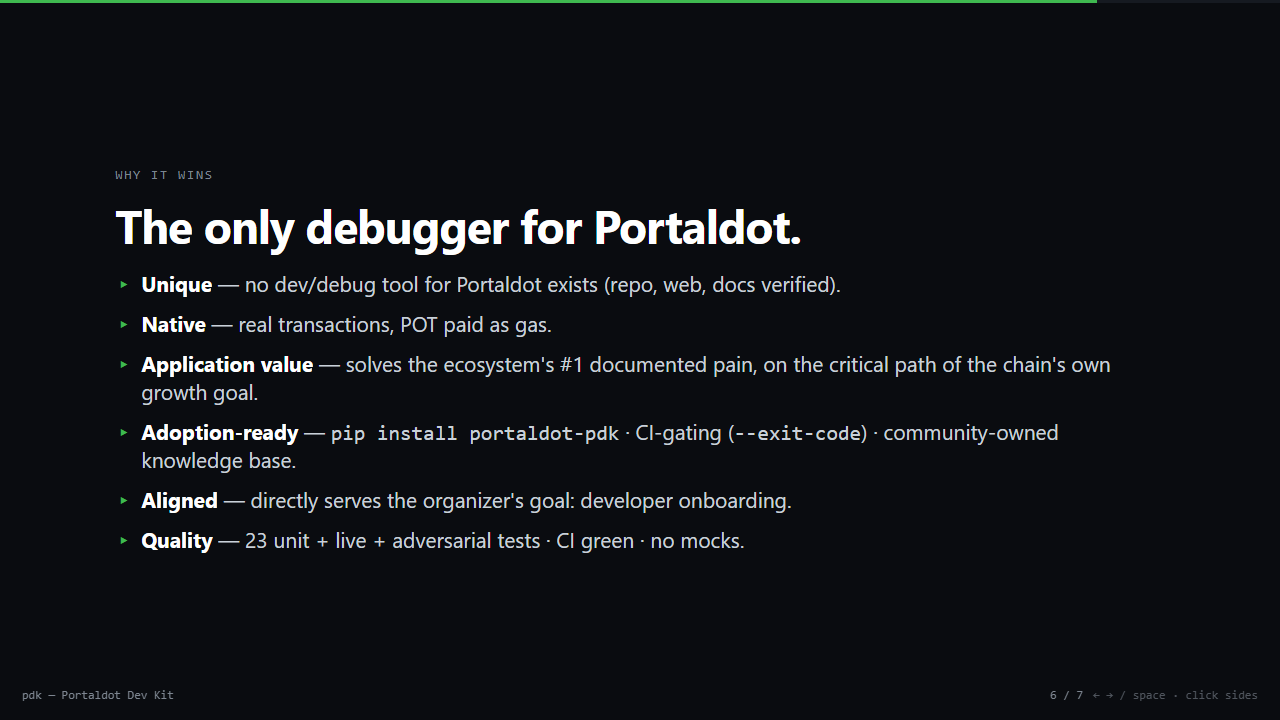
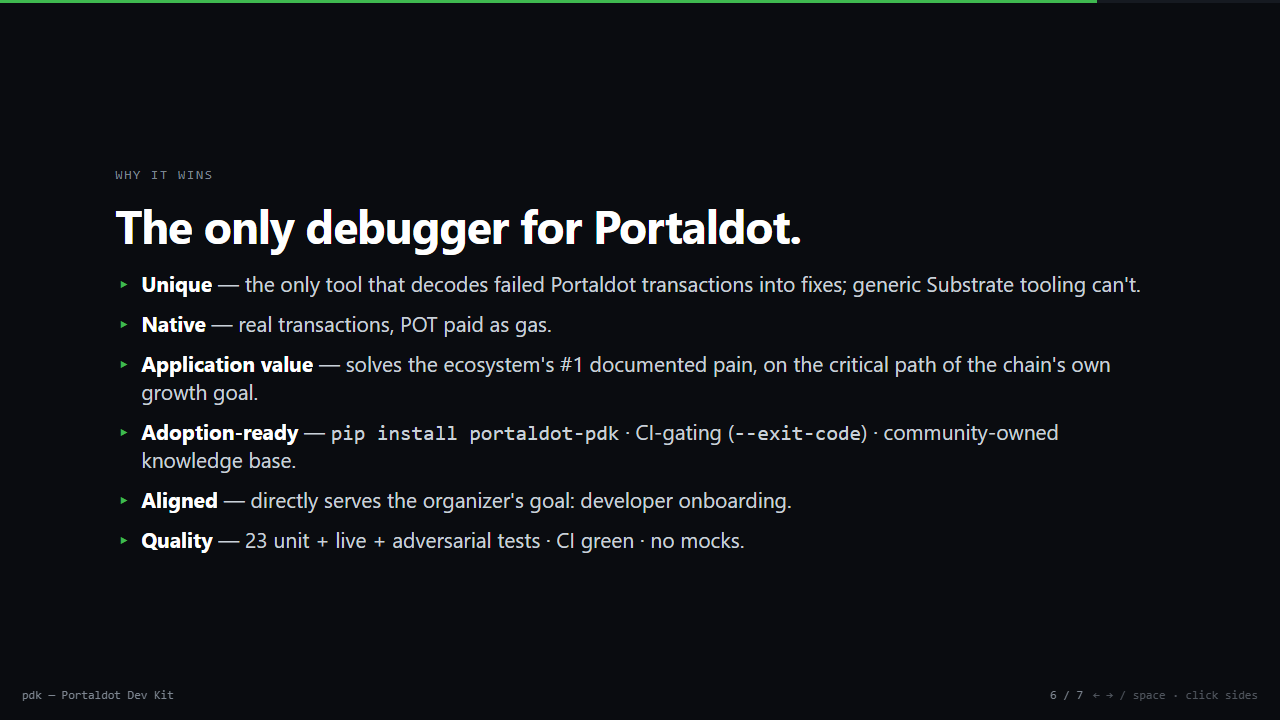
Add visual Developer Dashboard + fix uniqueness claim (competitor exists)
Mentors' #1 fix for a dev tool: "add a visual anchor, even a static mock, so
judges see the value." Built /dashboard — a real, no-mock visual companion to
the CLI: node health, a FailLens-decoded failure, the verified dev-account
addresses, the native-deployment tx, and the 12-command surface. Linked from
landing + errors nav, README, SUBMISSION.

A competitor developer toolkit exists in the field, so corrected the overstrong
"no dev/debug tool for Portaldot exists" claim to the accurate, defensible
differentiation (the only tool that DECODES failed transactions). Re-rendered
the pitch video's why-it-wins segment to match; refreshed slide-6 screenshot.

Changed region(s): [[0.1875, 0.3667, 0.875, 0.4278]]

diff --git a/web/dashboard/index.html b/web/dashboard/index.html
@@ -1,0 +1,207 @@
+<!DOCTYPE html>
+<html lang="en">
+<head>
+<meta charset="UTF-8" />
+<meta name="viewport" content="width=device-width, initial-scale=1.0" />
+<title>pdk — Developer Dashboard</title>
+<meta name="description" content="A visual companion to the pdk CLI — node health, FailLens diagnoses, dev accounts, and the full command surface for the Portaldot blockchain." />
+<meta name="theme-color" content="#0a0c10" />
+<meta property="og:title" content="pdk — Portaldot Developer Dashboard" />
+<meta property="og:description" content="See what pdk surfaces from a live Portaldot node: node health, decoded failures, dev accounts, and 12 commands." />
+<meta property="og:url" content="https://portaldot-pdk.vercel.app/dashboard" />
+<meta property="og:image" content="https://portaldot-pdk.vercel.app/logo.png" />
+<meta name="twitter:card" content="summary" />
+<link rel="icon" type="image/png" href="/logo.png" />
+<style>
+  :root {
+    --bg:#0a0c10; --panel:#14171d; --panel2:#0f1318; --border:#21262d; --text:#c9d1d9;
+    --muted:#7d8590; --green:#3fb950; --red:#f85149; --amber:#d29922; --cyan:#56d4dd;
+    --mono: ui-monospace, SFMono-Regular, "SF Mono", Menlo, Consolas, monospace;
+    --sans: -apple-system, BlinkMacSystemFont, "Segoe UI", Roboto, Helvetica, Arial, sans-serif;
+  }
+  * { box-sizing:border-box; margin:0; padding:0; }
+  body { background:var(--bg); color:var(--text); font-family:var(--sans); -webkit-font-smoothing:antialiased; line-height:1.5; }
+  code,pre,.mono { font-family:var(--mono); }
+  a { color:var(--green); text-decoration:none; } a:hover { text-decoration:underline; }
+  .wrap { max-width:1080px; margin:0 auto; padding:0 22px; }
+
+  header.top { border-bottom:1px solid var(--border); padding:14px 0; position:sticky; top:0;
+    background:rgba(10,12,16,.92); backdrop-filter:blur(8px); z-index:10; }
+  header.top .wrap { display:flex; align-items:center; justify-content:space-between; gap:14px; flex-wrap:wrap; }
+  .brand { font-family:var(--mono); font-weight:700; color:#fff; }
+  .brand .dot { color:var(--green); }
+  .navlinks { display:flex; gap:16px; font-size:14px; flex-wrap:wrap; }
+  .status { font-family:var(--mono); font-size:12px; color:var(--muted); display:flex; align-items:center; gap:7px; }
+  .pulse { width:9px; height:9px; border-radius:50%; background:var(--green); box-shadow:0 0 0 0 rgba(63,185,80,.6); animation:p 2s infinite; }
+  @keyframes p { 0%{box-shadow:0 0 0 0 rgba(63,185,80,.5)} 70%{box-shadow:0 0 0 7px rgba(63,185,80,0)} 100%{box-shadow:0 0 0 0 rgba(63,185,80,0)} }
+
+  .hero { padding:40px 0 14px; }
+  .kicker { font-family:var(--mono); font-size:12px; letter-spacing:.14em; text-transform:uppercase; color:var(--muted); }
+  h1 { font-size:clamp(28px,4.6vw,42px); line-height:1.05; letter-spacing:-.02em; color:#fff; margin:8px 0 10px; }
+  .lede { color:var(--muted); font-size:clamp(14px,1.8vw,17px); max-width:70ch; }
+  .note { background:#0e1116; border:1px solid var(--border); border-left:3px solid var(--green); border-radius:8px;
+    padding:11px 15px; margin:18px 0 6px; color:var(--muted); font-size:13.5px; }
+  .note strong { color:var(--text); }
+
+  .grid { display:grid; grid-template-columns:repeat(12,1fr); gap:16px; padding:18px 0 10px; }
+  .card { background:var(--panel); border:1px solid var(--border); border-radius:12px; padding:18px 20px; }
+  .card h2 { font-size:13px; font-family:var(--mono); letter-spacing:.06em; text-transform:uppercase; color:var(--muted); margin-bottom:14px; display:flex; align-items:center; justify-content:space-between; }
+  .card h2 .cmd { color:var(--green); text-transform:none; letter-spacing:0; }
+  .col-4 { grid-column:span 4; } .col-6 { grid-column:span 6; } .col-8 { grid-column:span 8; } .col-12 { grid-column:span 12; }
+  @media (max-width:860px){ .col-4,.col-6,.col-8 { grid-column:span 12; } }
+
+  .kv { display:flex; justify-content:space-between; gap:14px; padding:7px 0; border-bottom:1px solid #1b2027; font-size:14px; }
+  .kv:last-child { border-bottom:0; }
+  .kv .k { color:var(--muted); } .kv .v { font-family:var(--mono); color:var(--text); text-align:right; }
+  .v .ok { color:var(--green); } .v .amber { color:var(--amber); }
+
+  .term { background:var(--panel2); border:1px solid var(--border); border-radius:9px; padding:14px 16px; font-family:var(--mono); font-size:13.5px; }
+  .term .err { color:var(--red); font-weight:600; }
+  .term .lbl { color:#fff; font-weight:600; margin-top:10px; }
+  .term .mut { color:var(--muted); }
+  ol.fix { margin:6px 0 0 18px; display:flex; flex-direction:column; gap:4px; }
+  ol.fix li::marker { color:var(--green); }
+
+  .acct { display:flex; align-items:center; justify-content:space-between; gap:12px; padding:9px 0; border-bottom:1px solid #1b2027; }
+  .acct:last-child { border-bottom:0; }
+  .acct .name { font-weight:600; color:#fff; min-width:64px; }
+  .acct .addr { font-family:var(--mono); font-size:12px; color:var(--muted); word-break:break-all; }
+  .badge { font-family:var(--mono); font-size:11px; color:var(--green); border:1px solid #1f3a26; background:#0e1a12; border-radius:999px; padding:2px 9px; white-space:nowrap; }
+
+  .cmds { display:grid; grid-template-columns:repeat(auto-fit,minmax(150px,1fr)); gap:10px; }
+  .cmd-card { background:var(--panel2); border:1px solid var(--border); border-radius:9px; padding:11px 13px; }
+  .cmd-card .c { font-family:var(--mono); color:var(--green); font-weight:600; font-size:13.5px; }
+  .cmd-card .d { color:var(--muted); font-size:12.5px; margin-top:3px; }
+
+  .proof { font-family:var(--mono); font-size:13px; }
+  .proof .hash { color:var(--cyan); word-break:break-all; }
+
+  footer { border-top:1px solid var(--border); margin-top:30px; padding:24px 0 50px; color:var(--muted); font-size:13.5px; }
+  footer .wrap { display:flex; flex-wrap:wrap; gap:8px 18px; justify-content:space-between; }
+</style>
+</head>
+<body>
+
+<header class="top">
+  <div class="wrap">
+    <span class="brand">pdk<span class="dot">.</span></span>
+    <nav class="navlinks">
+      <a href="/">Home</a>
+      <a href="/errors">Errors</a>
+      <a href="/slide">Pitch</a>
+      <a href="https://portalscan.portaldot.io">Explorer ↗</a>
+      <a href="https://github.com/PugarHuda/portaldot-pdk">GitHub ↗</a>
+    </nav>
+    <span class="status"><span class="pulse"></span> Development · portaldot-1002</span>
+  </div>
+</header>
+
+<main class="wrap">
+  <section class="hero">
+    <div class="kicker">Portaldot · developer dashboard</div>
+    <h1>Everything pdk surfaces — at a glance.</h1>
+    <p class="lede">pdk is a 12-command CLI for the Portaldot local dev loop. This dashboard
+      is its visual companion: the node's health, a decoded failure from <span class="mono">FailLens</span>,
+      the funded dev accounts, and the full command surface — the same data the CLI prints, laid out visually.</p>
+    <div class="note">
+      <strong>No mocks.</strong> Every value here is real: the runtime facts and dev-account
+      addresses pdk reads from a live Portaldot node, the verified error knowledge base, and the
+      actual native-deployment transaction hash. Run the commands yourself to reproduce any of it.
+    </div>
+  </section>
+
+  <section class="grid">
+
+    <!-- Node health -->
+    <div class="card col-4">
+      <h2>Node health <span class="cmd">pdk doctor</span></h2>
+      <div class="kv"><span class="k">Chain</span><span class="v">Development</span></div>
+      <div class="kv"><span class="k">Runtime</span><span class="v">portaldot-1002</span></div>
+      <div class="kv"><span class="k">Node</span><span class="v">portaldot_dev 2.0.0</span></div>
+      <div class="kv"><span class="k">Block time</span><span class="v">6s</span></div>
+      <div class="kv"><span class="k">Contracts API</span><span class="v">v5 <span class="amber">(ink! 3.x)</span></span></div>
+      <div class="kv"><span class="k">Liveness</span><span class="v"><span class="ok">● producing blocks</span></span></div>
+      <div class="kv"><span class="k">Explorer</span><span class="v"><a href="https://portalscan.portaldot.io">portalscan ↗</a></span></div>
+    </div>
+
+    <!-- FailLens -->
+    <div class="card col-8">
+      <h2>FailLens — a decoded failure <span class="cmd">pdk debug &lt;hash&gt;</span></h2>
+      <div class="term">
+        <div><span class="mut">raw:</span> <span class="mut">ExtrinsicFailed · DispatchError { Module: { index: 6, error: 2 } }</span></div>
+        <div style="margin-top:8px"><span class="err">✗ Balances.InsufficientBalance</span></div>
+        <div class="lbl">What happened</div>
+        <div>You tried to transfer more POT than the sending account holds.</div>
+        <div class="lbl">How to fix</div>
+        <ol class="fix">
+          <li>Check the sender balance via the Portaldot explorer or <span class="mono">pdk doctor</span>.</li>
+          <li>Lower the transfer amount, or fund the account first (dev accounts are pre-funded on a --dev chain).</li>
+        </ol>
+      </div>
+      <div style="margin-top:12px; color:var(--muted); font-size:13.5px;">
+        Decoded against the chain's own metadata — never goes stale.
+        <a href="/errors">Browse all 29 verified errors →</a>
+      </div>
+    </div>
+
+    <!-- Dev accounts -->
+    <div class="card col-6">
+      <h2>Dev accounts <span class="cmd">pdk accounts</span></h2>
+      <div class="acct"><span class="name">Alice</span><span class="addr">5GrwvaEF5zXb26Fz9rcQpDWS57CtERHpNehXCPcNoHGKutQY</span><span class="badge">genesis</span></div>
+      <div class="acct"><span class="name">Bob</span><span class="addr">5FHneW46xGXgs5mUiveU4sbTyGBzmstUspZC92UhjJM694ty</span><span class="badge">genesis</span></div>
+      <div class="acct"><span class="name">Charlie</span><span class="addr">5FLSigC9HGRKVhB9FiEo4Y3koPsNmBmLJbpXg2mp1hXcS59Y</span><span class="badge">genesis</span></div>
+      <div style="margin-top:12px; color:var(--muted); font-size:13px;">
+        Funded at genesis on a <span class="mono">--dev</span> chain · SS58 format 42 · POT has 14 decimals.
+        The one-command answer to <em>"how do I get POT?"</em>. Run <span class="mono">pdk accounts</span> for live balances.
+      </div>
+    </div>
+
+    <!-- Native proof -->
+    <div class="card col-6">
+      <h2>Native deployment proof <span class="cmd">pdk up</span></h2>
+      <div class="proof">
+        <div class="kv"><span class="k">tx hash</span></div>
+        <div class="hash">0x8b605579d6b512892f4394aa43937e1d762d34411b43c6a4aa9fa8a5dd4d546a</div>
+        <div class="kv" style="margin-top:8px"><span class="k">node</span><span class="v">local Portaldot dev (2.0.0)</span></div>
+        <div class="kv"><span class="k">fee</span><span class="v"><span class="ok">paid in POT</span></span></div>
+      </div>
+      <div style="margin-top:12px; color:var(--muted); font-size:13px;">
+        A real on-chain transaction paying POT as gas — the hackathon's native-deployment requirement.
+      </div>
+    </div>
+
+    <!-- Command surface -->
+    <div class="card col-12">
+      <h2>The command surface <span class="cmd">12 commands</span></h2>
+      <div class="cmds">
+        <div class="cmd-card"><div class="c">pdk up</div><div class="d">Start a node + verify with a real tx</div></div>
+        <div class="cmd-card"><div class="c">pdk accounts</div><div class="d">Funded dev accounts + POT</div></div>
+        <div class="cmd-card"><div class="c">pdk debug</div><div class="d">FailLens — decode a failure</div></div>
+        <div class="cmd-card"><div class="c">pdk explain</div><div class="d">Queryable error reference</div></div>
+        <div class="cmd-card"><div class="c">pdk doctor</div><div class="d">Node + ink! + liveness</div></div>
+        <div class="cmd-card"><div class="c">pdk simulate</div><div class="d">Preview fee + feasibility</div></div>
+        <div class="cmd-card"><div class="c">pdk seed</div><div class="d">Fund accounts from fixtures</div></div>
+        <div class="cmd-card"><div class="c">pdk pallets</div><div class="d">Browse pallets / calls / errors</div></div>
+        <div class="cmd-card"><div class="c">pdk send</div><div class="d">A real POT transfer</div></div>
+        <div class="cmd-card"><div class="c">pdk storage</div><div class="d">Read any chain storage</div></div>
+        <div class="cmd-card"><div class="c">pdk watch</div><div class="d">Stream chain events live</div></div>
+        <div class="cmd-card"><div class="c">pdk keys</div><div class="d">Generate / inspect a keypair</div></div>
+      </div>
+      <div style="margin-top:14px; color:var(--muted); font-size:13.5px;">
+        <span class="mono">pip install portaldot-pdk</span> · runs on Linux, macOS &amp; Windows ·
+        CI-gating with <span class="mono">pdk debug --json --exit-code</span>.
+      </div>
+    </div>
+
+  </section>
+</main>
+
+<footer>
+  <div class="wrap">
+    <span>pdk — Portaldot Dev Kit · a visual companion to the CLI · verified against runtime <span class="mono">portaldot-1002</span></span>
+    <span><a href="https://github.com/PugarHuda/portaldot-pdk">github.com/PugarHuda/portaldot-pdk</a></span>
+  </div>
+</footer>
+
+</body>
+</html>

diff --git a/web/slide/index.html b/web/slide/index.html
@@ -155,7 +155,7 @@ FailLens watching from block #14 …
     <div class="kicker">Why it wins</div>
     <h2>The only debugger for Portaldot.</h2>
     <ul>
-      <li><strong>Unique</strong> — no dev/debug tool for Portaldot exists (repo, web, docs verified).</li>
+      <li><strong>Unique</strong> — the only tool that decodes failed Portaldot transactions into fixes; generic Substrate tooling can't.</li>
       <li><strong>Native</strong> — real transactions, POT paid as gas.</li>
       <li><strong>Application value</strong> — solves the ecosystem's #1 documented pain, on the critical path of the chain's own growth goal.</li>
       <li><strong>Adoption-ready</strong> — <span class="mono">pip install portaldot-pdk</span> · CI-gating (<span class="mono">--exit-code</span>) · community-owned knowledge base.</li>

diff --git a/web/errors/index.html b/web/errors/index.html
@@ -74,6 +74,7 @@
     <span class="brand">pdk<span class="dot">.</span></span>
     <nav class="navlinks">
       <a href="/">Home</a>
+      <a href="/dashboard">Dashboard</a>
       <a href="/slide">Pitch</a>
       <a href="https://github.com/PugarHuda/portaldot-pdk">GitHub ↗</a>
     </nav>

diff --git a/web/index.html b/web/index.html
@@ -122,6 +122,7 @@
   <div class="wrap">
     <span class="brand">pdk<span class="dot">.</span></span>
     <span class="mono" style="font-size:14px;">
+      <a href="/dashboard">Dashboard</a> &nbsp;·&nbsp;
       <a href="/errors">Error reference</a> &nbsp;·&nbsp;
       <a href="/slide">Pitch deck</a> &nbsp;·&nbsp;
       <a href="https://portalscan.portaldot.io">Explorer ↗</a> &nbsp;·&nbsp;

diff --git a/README.md b/README.md
@@ -9,7 +9,7 @@
 A developer toolkit for the [Portaldot](https://www.portaldot.io/) blockchain.
 Built for the **Portaldot Online Mini Hackathon S1** — *Builder Tools* track.
 
-**[▶ Live page](https://portaldot-pdk.vercel.app)** · [Error reference](https://portaldot-pdk.vercel.app/errors) · [Pitch deck](https://portaldot-pdk.vercel.app/slide) · [Submission](SUBMISSION.md) · [Demo script](DEMO.md) · [Video narration](VIDEO_SCRIPT.md)
+**[▶ Live page](https://portaldot-pdk.vercel.app)** · [Dashboard](https://portaldot-pdk.vercel.app/dashboard) · [Error reference](https://portaldot-pdk.vercel.app/errors) · [Pitch deck](https://portaldot-pdk.vercel.app/slide) · [Submission](SUBMISSION.md)
 
 ![pdk — FailLens decoding a Portaldot transaction failure, live](docs/demo.gif)
 

diff --git a/SUBMISSION.md b/SUBMISSION.md
@@ -72,6 +72,7 @@ fee     : paid in POT by the submitting account
 - **Repo:** https://github.com/PugarHuda/portaldot-pdk
 - **Install:** `pip install portaldot-pdk`
 - **Landing page:** https://portaldot-pdk.vercel.app
+- **Developer dashboard (visual):** https://portaldot-pdk.vercel.app/dashboard
 - **Error reference (zero-install):** https://portaldot-pdk.vercel.app/errors
 - **Pitch deck:** https://portaldot-pdk.vercel.app/slide
 - **CI recipe:** [docs/ci-recipe.md](docs/ci-recipe.md)